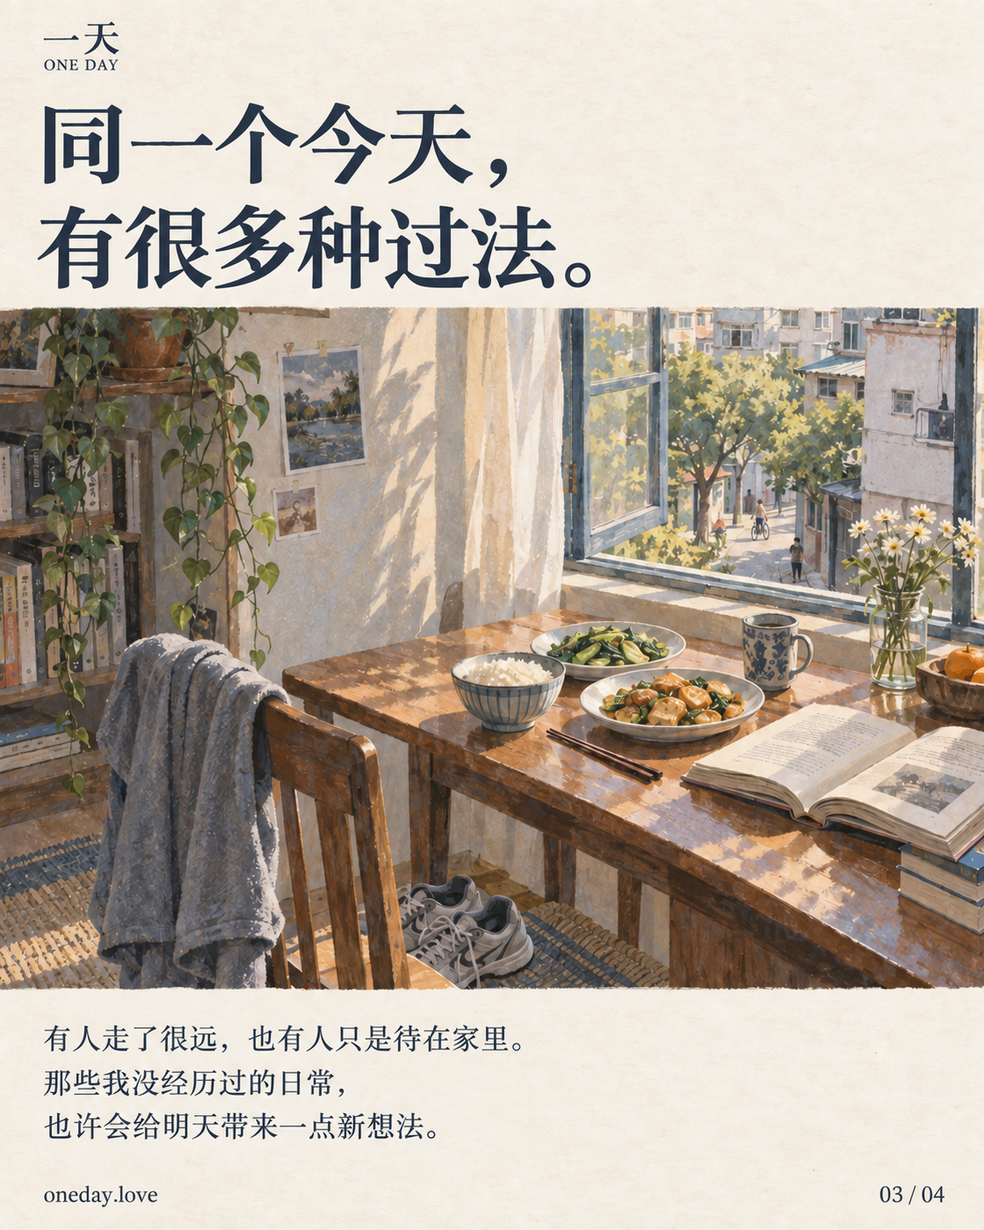
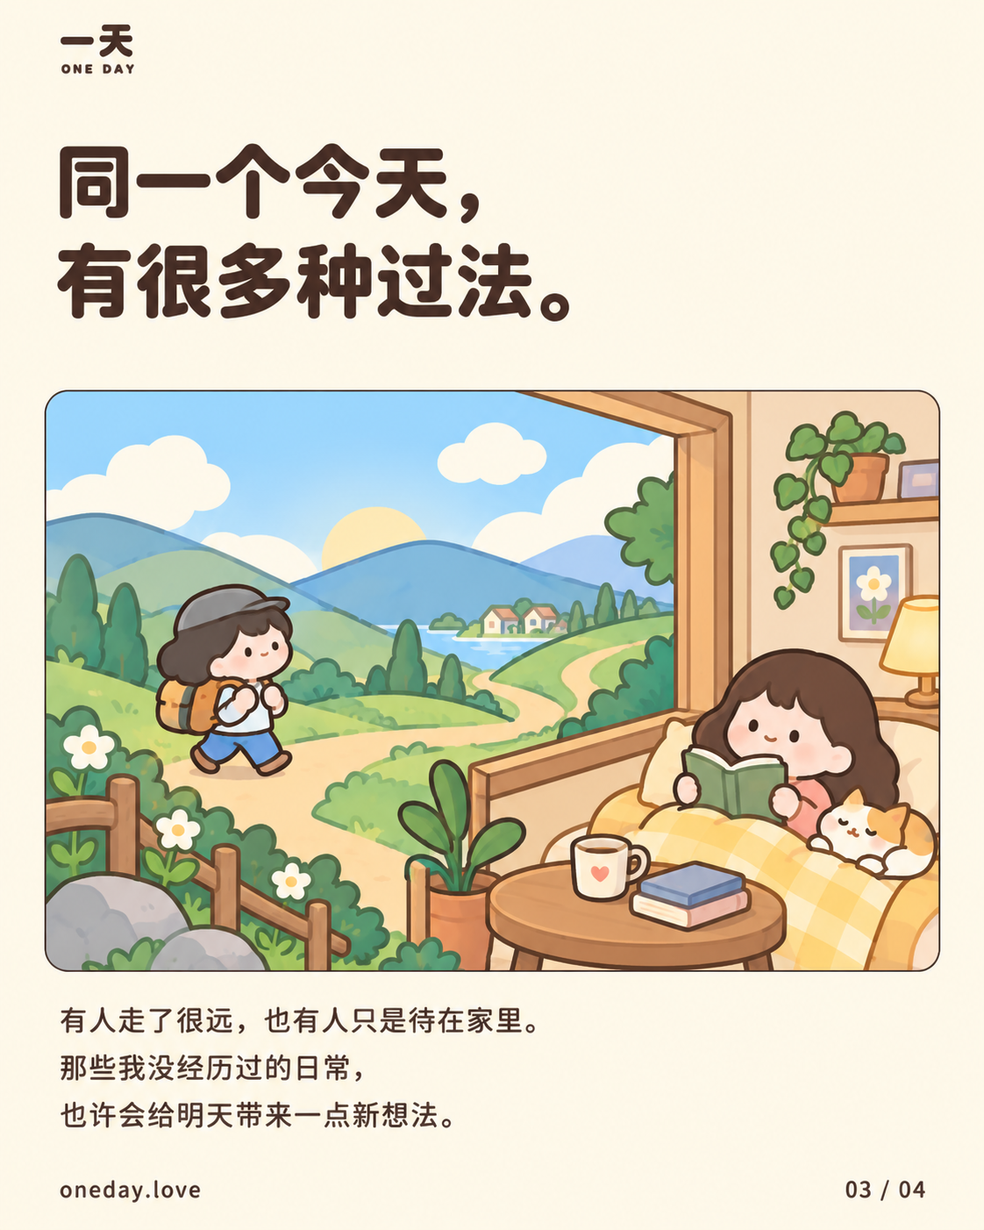
将故事海报改为统一尺寸的Q版插画并记录域名解析

diff --git a/docs/promo/prompts.md b/docs/promo/prompts.md
@@ -1,58 +1,78 @@
-# 故事宣传图：提示词
+# Q 版故事宣传图：提示词
 
-使用 Codex 内置 imagegen，日期为 2026-10-03。没有调用项目的审核接口或使用项目密钥。
+2026-10-03 使用 Codex 内置 imagegen 制作。第 1 张从文字生成，其余三张以第 1 张为统一画风和排版参考。以下保留实际提示词；图片输出后逐一核对了文字和 PNG 文件头，四张均为 1122 × 1402 像素。
 
-以下是最终版本的提示词集。第 1、2、4 张保留实际生成提示词；第 3 张通过局部修改标题和正文得到，这里整理成可重建最终版本的完整提示词，不包含未采用的文案与私人细节。它不是全部尝试的原始日志。
+第一张中的「床上的孩子」是叙事插画，不是作者肖像。四张均未使用应用截图、卫星影像或第三方角色。
 
 ## 01-childhood
 
 ```text
-Use case: ads-marketing / illustration-story. Generate ONE finished poster, one sheet of a cohesive FOUR-PART Chinese founder-story campaign for the free anonymous website 一天 (One Day). This is about WHY the project exists: imagining other people's ordinary lives and discovering more possibilities for living. It is NOT a UI explainer, feature list, product demo, wealth advice or happiness formula. Portrait about 4:5. Premium thoughtful editorial illustration with natural hand-painted gouache and subtle pencil textures, observed ordinary detail, sophisticated restrained colors (warm paper ivory, blue-gray, muted terracotta, small amber light). Human and curious, plainspoken, not preachy, not saccharine, not magical self-help. Large elegant legible Chinese type with generous space, all exact text accurately rendered. Common composition: small “一天 / ONE DAY” masthead at top left, headline upper section on warm paper, one strong atmospheric illustration middle, three short lines of body copy separated clearly below, small “oneday.love” footer with the sheet number. Never include a browser, app screen, smartphone frame, buttons, scorecard, map markers, mascot, logo of another company, QR code, coins, piles of money, rich-versus-poor comparison or lifestyle hierarchy. Illustrations are imagined narrative scenes, not photographs documenting real people. No added text or slogans. Use only the exact provided Chinese copy and footer.
-Sheet 01 / 04.
-Exact headline in 3 deliberate lines:
+Create ONE finished Chinese founder-story promotional poster for 一天 / ONE DAY. Output canvas EXACTLY 1122 pixels wide by 1402 pixels high, portrait; the four posters in this set MUST share precisely this same canvas and identical layout grid. Style is clearly Q版 / chibi / cute flat illustration: rounded bean-like little people only TWO heads tall, dot eyes, tiny mitten hands, little rounded houses and furniture, confident smooth dark cocoa outlines, flat pastel fills (warm cream #FFF7E7, butter yellow, peach, mint, dusty baby blue), two simple shading tones maximum. It should feel like charming original illustrated stationery or a friendly comic, never a realistic anime film painting. NO realistic bodies or facial anatomy, no painterly brushwork, no photographic texture, no dramatic cinematic lighting, no bokeh, no detailed oil/gouache, no serif calligraphy. Typography is a warm rounded Chinese sans with excellent readability.
+CRITICAL consistent poster template: background warm cream. Outer margin 64px. Small 一天 with small ONE DAY masthead at x64 y52. Headline box x64 y145 width994 height220 with all headline characters about 70px high, left aligned; always leave this full box even if the title uses only 2 lines. Illustration window x64 y390 width994 height620, rounded rectangle with pastel blue/peach backdrop, absolutely no bleeding outside. Body copy at x64 y1070, line height55, font32px, exactly 3 lines. Footer at y1340: oneday.love at x64, number at right edge. Maintain these same positions and scale in every sheet. No UI screens, website navigation, diagram arrows, price tags, medals, money piles, mascots from existing IP, fake testimonials or extra slogans. Theme: curiosity about other people's ordinary lives and seeing more ways to live. It is a story, NOT how-to instructions, not a happiness formula. Simplified Chinese exact wording only.
+SHEET 01 / 04.
+Headline exact three lines:
 “小时候，我常想象”
 “别人是怎么”
 “生活的。”
-Exact body:
+Body exact three lines:
 “睡前躺在床上，神游到大气层附近，”
 “往下看着地面，想着不同地方的人，”
 “正在过怎样的一天。”
-Illustration: an intimate, quietly imaginative aerial view from the edge of Earth's thin atmosphere, dark blue land curving gently into evening, a few settlements with tiny warm illuminated windows far below. At the bottom near edge a small subtle fold of a linen bedcover / pillow connects the view to a child's bedtime imagination. Blend this as a painted memory, not a photomontage; do not show a child flying, astronaut, spaceship, giant realistic globe object or floating bed. The warm lights imply lived-in houses, not UI markers. Perspective looking DOWN toward everyday places, no stars or fantasy fireworks. Let the ivory paper framing keep it gentle rather than a dark science-fiction poster. Footer “oneday.love” and “01 / 04”.
+Footer exact “oneday.love” and “01 / 04”.
+Illustration within the fixed window: a tiny anonymous chibi child cuddled in a simple little bed in the lower-left corner, a large round thought bubble growing above them contains a cute curved blue-and-mint Earth from above. Across the curved ground are 3 small rounded houses with warm windows, tiny people eating, reading or walking; all symbolic and adorable, not to scale. Puffy simple clouds indicate the atmosphere and imagination. Clear visual hierarchy with one big thought bubble and small bed, generous room, a few everyday little details but never busy. No fantasy spaceship or astronaut. Make the story feel curious, warm and lightly playful.
 ```
 
 ## 02-curiosity
 
 ```text
-Use case: ads-marketing / illustration-story. Generate ONE finished poster, one sheet of a cohesive FOUR-PART Chinese founder-story campaign for the free anonymous website 一天 (One Day). This is about WHY the project exists: imagining other people's ordinary lives and discovering more possibilities for living. It is NOT a UI explainer, feature list, product demo, wealth advice or happiness formula. Portrait about 4:5. Premium thoughtful editorial illustration with natural hand-painted gouache and subtle pencil textures, observed ordinary detail, sophisticated restrained colors (warm paper ivory, blue-gray, muted terracotta, small amber light). Human and curious, plainspoken, not preachy, not saccharine, not magical self-help. Large elegant legible Chinese type with generous space, all exact text accurately rendered. Common composition: small “一天 / ONE DAY” masthead at top left, headline upper section on warm paper, one strong atmospheric illustration middle, three short lines of body copy separated clearly below, small “oneday.love” footer with the sheet number. Never include a browser, app screen, smartphone frame, buttons, scorecard, map markers, mascot, logo of another company, QR code, coins, piles of money, rich-versus-poor comparison or lifestyle hierarchy. Illustrations are imagined narrative scenes, not photographs documenting real people. No added text or slogans. Use only the exact provided Chinese copy and footer.
-Sheet 02 / 04.
-Exact headline in 2 lines:
+Create ONE finished Chinese founder-story promotional poster for 一天 / ONE DAY. Output canvas EXACTLY 1122 pixels wide by 1402 pixels high, portrait; the four posters in this set MUST share precisely this same canvas and identical layout grid. Style is clearly Q版 / chibi / cute flat illustration: rounded bean-like little people only TWO heads tall, dot eyes, tiny mitten hands, little rounded houses and furniture, confident smooth dark cocoa outlines, flat pastel fills (warm cream #FFF7E7, butter yellow, peach, mint, dusty baby blue), two simple shading tones maximum. It should feel like charming original illustrated stationery or a friendly comic, never a realistic anime film painting. NO realistic bodies or facial anatomy, no painterly brushwork, no photographic texture, no dramatic cinematic lighting, no bokeh, no detailed oil/gouache, no serif calligraphy. Typography is a warm rounded Chinese sans with excellent readability.
+CRITICAL consistent poster template: background warm cream. Outer margin 64px. Small 一天 with small ONE DAY masthead at x64 y52. Headline box x64 y145 width994 height220 with all headline characters about 70px high, left aligned; always leave this full box even if the title uses only 2 lines. Illustration window x64 y390 width994 height620, rounded rectangle with pastel blue/peach backdrop, absolutely no bleeding outside. Body copy at x64 y1070, line height55, font32px, exactly 3 lines. Footer at y1340: oneday.love at x64, number at right edge. Maintain these same positions and scale in every sheet. No UI screens, website navigation, diagram arrows, price tags, medals, money piles, mascots from existing IP, fake testimonials or extra slogans. Theme: curiosity about other people's ordinary lives and seeing more ways to live. It is a story, NOT how-to instructions, not a happiness formula. Simplified Chinese exact wording only.
+The attached image is sheet 01 and is the MASTER STYLE AND LAYOUT REFERENCE. Create the next sheet in exactly this set, matching its actual pixel dimensions, paper color, typography shape and size, outer margins, masthead position, rounded illustration frame bounds, body-text baseline positions and footer. Keep the illustration panel at the same exact vertical position and same height as the master even when your headline is shorter; DO NOT expand a two-line title to fill the entire three-line title area. Use its same cute little people and smooth friendly outlines. Preserve its simple warm style, do not drift toward realism. Do not retain the master sheet's headline, body text or numbering; use the exact new wording below.
+SHEET 02 / 04.
+Headline two lines exactly:
 “长大后，”
 “这个好奇还在。”
-Exact body:
+Body three lines exactly:
 “今天的一次聊天，让我又想起了这件事。”
 “我们对生活的期待不同，”
 “对「过得还不错」，也有各自的体会。”
-Illustration: an ordinary town seen from slightly above at dusk, warm apartment windows with modest little everyday scenes glimpsed inside: someone preparing dinner, someone quietly reading, someone returning home with a bag. Rich lived-in detail but not crowded, a little open sky and soft blue-gray distant rooftops, intimate terracotta and amber lighting. None of these people is portrayed as sad, superior, rich, poor or an identifiable real friend. No restaurant argument, empty abandoned table or phone/chat. Illustration invites curiosity about life behind different windows. Main image stays within a generous ivory editorial composition, not full-bleed busy cityscape. Footer “oneday.love” and “02 / 04”.
+Footer “oneday.love” and “02 / 04”.
+Inside the same-size rounded illustration frame: a tiny cute neighborhood with three rounded little buildings, and chibi adults (two heads tall, simplified dot-eye faces) doing ordinary things. One stirs a pot in a visible kitchen window, one reads a little book, another walks home with a bag. Chunky potted plants, rounded clouds, muted blue and peach evening sky. Mood is curious and warm, different people's ordinary days, no person judged as sad/rich/poor/superior. No restaurant argument, no conversation screenshots, no specific real friend. Keep the same playful flat cartoon style as reference.
 ```
 
 ## 03-many-days
 
 ```text
-Use case: ads-marketing / illustration-story. Portrait 4:5 editorial poster, part three of a four-part story about the anonymous website 一天. Warm ivory paper, blue-gray and amber gouache illustration with subtle pencil texture. Small “一天 / ONE DAY” masthead. Large dark Chinese headline, in two lines: “同一个今天，” / “有很多种过法。” One ordinary imagined home scene: a simple meal, a book on a table by an open window, shoes near a chair, sunlight and a neighborhood outside. No identifiable real people or actual personal home, no price, no UI, no financial claim, no background slogans. Three exact lines of body copy: “有人走了很远，也有人只是待在家里。” / “那些我没经历过的日常，” / “也许会给明天带来一点新想法。” Footer “oneday.love” and “03 / 04”. Maintain generous space and accurate legible Simplified Chinese.
+Create ONE finished Chinese founder-story promotional poster for 一天 / ONE DAY. Output canvas EXACTLY 1122 pixels wide by 1402 pixels high, portrait; the four posters in this set MUST share precisely this same canvas and identical layout grid. Style is clearly Q版 / chibi / cute flat illustration: rounded bean-like little people only TWO heads tall, dot eyes, tiny mitten hands, little rounded houses and furniture, confident smooth dark cocoa outlines, flat pastel fills (warm cream #FFF7E7, butter yellow, peach, mint, dusty baby blue), two simple shading tones maximum. It should feel like charming original illustrated stationery or a friendly comic, never a realistic anime film painting. NO realistic bodies or facial anatomy, no painterly brushwork, no photographic texture, no dramatic cinematic lighting, no bokeh, no detailed oil/gouache, no serif calligraphy. Typography is a warm rounded Chinese sans with excellent readability.
+CRITICAL consistent poster template: background warm cream. Outer margin 64px. Small 一天 with small ONE DAY masthead at x64 y52. Headline box x64 y145 width994 height220 with all headline characters about 70px high, left aligned; always leave this full box even if the title uses only 2 lines. Illustration window x64 y390 width994 height620, rounded rectangle with pastel blue/peach backdrop, absolutely no bleeding outside. Body copy at x64 y1070, line height55, font32px, exactly 3 lines. Footer at y1340: oneday.love at x64, number at right edge. Maintain these same positions and scale in every sheet. No UI screens, website navigation, diagram arrows, price tags, medals, money piles, mascots from existing IP, fake testimonials or extra slogans. Theme: curiosity about other people's ordinary lives and seeing more ways to live. It is a story, NOT how-to instructions, not a happiness formula. Simplified Chinese exact wording only.
+The attached image is sheet 01 and is the MASTER STYLE AND LAYOUT REFERENCE. Create the next sheet in exactly this set, matching its actual pixel dimensions, paper color, typography shape and size, outer margins, masthead position, rounded illustration frame bounds, body-text baseline positions and footer. Keep the illustration panel at the same exact vertical position and same height as the master even when your headline is shorter; DO NOT expand a two-line title to fill the entire three-line title area. Use its same cute little people and smooth friendly outlines. Preserve its simple warm style, do not drift toward realism. Do not retain the master sheet's headline, body text or numbering; use the exact new wording below.
+SHEET 03 / 04.
+Headline two lines exactly:
+“同一个今天，”
+“有很多种过法。”
+Body three lines exactly:
+“有人走了很远，也有人只是待在家里。”
+“那些我没经历过的日常，”
+“也许会给明天带来一点新想法。”
+Footer “oneday.love” and “03 / 04”.
+Within the same-size rounded illustration panel, a continuous cute landscape with TWO small everyday scenes: on one side, a two-heads-tall chibi traveler with a tiny backpack strolls on a curving path over soft round hills; on the other, a chibi adult curls up comfortably at home with an open book, a little mug and a cat beside a big open window looking toward that same path. No travel landmarks, no glamorous luxury, both scenes equally inviting. Pale blue, cream, warm yellow and mint, bold rounded outlines, simple shapes, no realistic anatomy. Do not include any cost amount or personal spending details, no price labels or wellness advice.
 ```
 
 ## 04-possibilities
 
 ```text
-Use case: ads-marketing / illustration-story. Generate ONE finished poster, one sheet of a cohesive FOUR-PART Chinese founder-story campaign for the free anonymous website 一天 (One Day). This is about WHY the project exists: imagining other people's ordinary lives and discovering more possibilities for living. It is NOT a UI explainer, feature list, product demo, wealth advice or happiness formula. Portrait about 4:5. Premium thoughtful editorial illustration with natural hand-painted gouache and subtle pencil textures, observed ordinary detail, sophisticated restrained colors (warm paper ivory, blue-gray, muted terracotta, small amber light). Human and curious, plainspoken, not preachy, not saccharine, not magical self-help. Large elegant legible Chinese type with generous space, all exact text accurately rendered. Common composition: small “一天 / ONE DAY” masthead at top left, headline upper section on warm paper, one strong atmospheric illustration middle, three short lines of body copy separated clearly below, small “oneday.love” footer with the sheet number. Never include a browser, app screen, smartphone frame, buttons, scorecard, map markers, mascot, logo of another company, QR code, coins, piles of money, rich-versus-poor comparison or lifestyle hierarchy. Illustrations are imagined narrative scenes, not photographs documenting real people. No added text or slogans. Use only the exact provided Chinese copy and footer.
-Sheet 04 / 04.
-Exact headline in 2 lines:
+Create ONE finished Chinese founder-story promotional poster for 一天 / ONE DAY. Output canvas EXACTLY 1122 pixels wide by 1402 pixels high, portrait; the four posters in this set MUST share precisely this same canvas and identical layout grid. Style is clearly Q版 / chibi / cute flat illustration: rounded bean-like little people only TWO heads tall, dot eyes, tiny mitten hands, little rounded houses and furniture, confident smooth dark cocoa outlines, flat pastel fills (warm cream #FFF7E7, butter yellow, peach, mint, dusty baby blue), two simple shading tones maximum. It should feel like charming original illustrated stationery or a friendly comic, never a realistic anime film painting. NO realistic bodies or facial anatomy, no painterly brushwork, no photographic texture, no dramatic cinematic lighting, no bokeh, no detailed oil/gouache, no serif calligraphy. Typography is a warm rounded Chinese sans with excellent readability.
+CRITICAL consistent poster template: background warm cream. Outer margin 64px. Small 一天 with small ONE DAY masthead at x64 y52. Headline box x64 y145 width994 height220 with all headline characters about 70px high, left aligned; always leave this full box even if the title uses only 2 lines. Illustration window x64 y390 width994 height620, rounded rectangle with pastel blue/peach backdrop, absolutely no bleeding outside. Body copy at x64 y1070, line height55, font32px, exactly 3 lines. Footer at y1340: oneday.love at x64, number at right edge. Maintain these same positions and scale in every sheet. No UI screens, website navigation, diagram arrows, price tags, medals, money piles, mascots from existing IP, fake testimonials or extra slogans. Theme: curiosity about other people's ordinary lives and seeing more ways to live. It is a story, NOT how-to instructions, not a happiness formula. Simplified Chinese exact wording only.
+The attached image is sheet 01 and is the MASTER STYLE AND LAYOUT REFERENCE. Create the next sheet in exactly this set, matching its actual pixel dimensions, paper color, typography shape and size, outer margins, masthead position, rounded illustration frame bounds, body-text baseline positions and footer. Keep the illustration panel at the same exact vertical position and same height as the master even when your headline is shorter; DO NOT expand a two-line title to fill the entire three-line title area. Use its same cute little people and smooth friendly outlines. Preserve its simple warm style, do not drift toward realism. Do not retain the master sheet's headline, body text or numbering; use the exact new wording below.
+SHEET 04 / 04.
+Headline two lines exactly:
 “于是，”
 “有了「一天」。”
-Exact body:
+Body three lines exactly:
 “把不同地方的普通日子放在一起。”
 “看看别人怎样生活，”
 “也看看生活，还有哪些可能。”
-One small closing invitation, apart from body: “来看看，也写下你的一天。”
-Illustration: a wide small-scale landscape of several different ordinary places seamlessly connected as a single gentle scene: a riverside walking path, compact city apartments, a quiet town street and a simple home kitchen glimpsed through a window. Small natural people doing daily things, mixed ages, no posed heroes. Subtle curved horizon echoes the first sheet's view from above, but now a closer human-scale view. Warm late-day sun and soft blue-gray shadows. No globe UI, no abstract network connecting icons, no travel postcard landmarks, no staged tourism luxury. Convey room for many lives with composition and warm open spaces. Footer “oneday.love” and “04 / 04”.
+A small closing invitation above the footer, kept separate from the three body lines and small enough not to move any other template element: “来看看，也写下你的一天。”
+Footer “oneday.love” and “04 / 04”.
+Inside the exactly matching rounded illustration frame, show a friendly little blue-and-mint globe with rounded toy-sized everyday neighborhoods arranged on its curved land, surrounded by a few puffy clouds. Four or five original chibi people (two heads tall, dot eyes, tiny mitten hands) in different little settings: cooking, strolling, reading, cycling, relaxing. A few rounded little houses and trees. Bring the bedtime thought from sheet 01 into a shared place for everyone's everyday lives. All equal scale and dignity, warm cheerful curiosity, no stage or hero, no app UI or map pin, no mascot IP. Match the master's cute flat illustrated style and controlled amount of detail exactly.
 ```

diff --git a/README.md b/README.md
@@ -22,11 +22,24 @@
 
 ## 这个想法的由来
 
-| 小时候的想象 | 长大后的好奇 |
-| :---: | :---: |
-| [![小时候，我常想象别人是怎么生活的。睡前神游到大气层附近，向下看着地面。](docs/promo/01-childhood.png)](docs/promo/01-childhood.png) | [![长大后，这个好奇还在。我们对生活的期待不同，也有各自的体会。](docs/promo/02-curiosity.png)](docs/promo/02-curiosity.png) |
-| **不同的过法** | **于是，有了一天** |
-| [![同一个今天，有很多种过法。别人的日常，也许会给明天带来一点新想法。](docs/promo/03-many-days.png)](docs/promo/03-many-days.png) | [![于是，有了一天。把不同地方的普通日子放在一起，看看生活还有哪些可能。](docs/promo/04-possibilities.png)](docs/promo/04-possibilities.png) |
+<table width="100%">
+  <tr>
+    <th width="50%">小时候的想象</th>
+    <th width="50%">长大后的好奇</th>
+  </tr>
+  <tr>
+    <td width="50%"><a href="docs/promo/01-childhood.png"><img src="docs/promo/01-childhood.png" width="100%" alt="小时候，我常想象别人是怎么生活的。睡前神游到大气层附近，向下看着地面。"></a></td>
+    <td width="50%"><a href="docs/promo/02-curiosity.png"><img src="docs/promo/02-curiosity.png" width="100%" alt="长大后，这个好奇还在。我们对生活的期待不同，也有各自的体会。"></a></td>
+  </tr>
+  <tr>
+    <th width="50%">不同的过法</th>
+    <th width="50%">于是，有了一天</th>
+  </tr>
+  <tr>
+    <td width="50%"><a href="docs/promo/03-many-days.png"><img src="docs/promo/03-many-days.png" width="100%" alt="同一个今天，有很多种过法。别人的日常，也许会给明天带来一点新想法。"></a></td>
+    <td width="50%"><a href="docs/promo/04-possibilities.png"><img src="docs/promo/04-possibilities.png" width="100%" alt="于是，有了一天。把不同地方的普通日子放在一起，看看生活还有哪些可能。"></a></td>
+  </tr>
+</table>
 
 四张图讲的是这个项目的起点。插画是想象中的生活场景，不是真实人物或住所的照片。点击图片可查看原图。[制作说明](docs/promo/README.md)
 

diff --git a/docs/promo/README.md b/docs/promo/README.md
@@ -1,6 +1,6 @@
 # “一天”的故事宣传图
 
-2026-10-03 制作。四张竖版 PNG，1122 × 1402 像素，比例约 4:5；可顺序阅读，也可以单张打开。
+2026-10-03 制作并更新为 Q 版。四张竖版 PNG，均为 **1122 × 1402 像素**，比例约 4:5；可顺序阅读，也可以单张打开。画布、圆角插画框、页脚位置和 README 展示列宽保持一致。
 
 | 图片 | 故事 |
 | --- | --- |
@@ -11,7 +11,7 @@
 
 ## 文案与画面
 
-故事来自项目发起者的讲述，经整理用于公开表达。画面采用暖纸色、蓝灰和橙色光线，以手绘生活场景串起故事。插画由 Codex 内置 imagegen 生成，表现的是想象中的场景，不是发起者、真实用户或其住所的照片。
+故事来自项目发起者的讲述，经整理用于公开表达。画面采用暖米色、蓝色、蜜桃色和薄荷绿，以圆润的 Q 版小人、房子与平涂色块串起故事，文字使用圆润字形。先制作第 1 张作为母版，再让其余三张沿用同一画风和排版。插画由 Codex 内置 imagegen 生成，表现的是想象中的场景，不是发起者、真实用户或其住所的照片。
 
 这组图着重讲项目为什么出现。使用机制单独写在[主 README](../../README.md)，没有放进海报做操作教学，也没有把任何一种生活方式写成标准答案。
 
